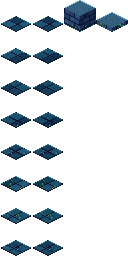
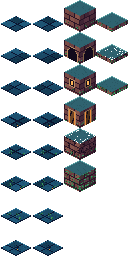
壁の面を増やす: 地下墓所の壁に、アーチ・窓・扉・崩れ・苔の種類と赤茶のレンガ

Changed region(s): [[0.5, 0.0, 1.0, 0.75]]

diff --git a/tools/tiles/make_crypt_tiles.py b/tools/tiles/make_crypt_tiles.py
@@ -89,14 +89,41 @@ def paint_floor(img, ox, oy, variant, shade, rng):
                     if p in cells and cells[p][2] < 0.8 and rng.random() < 0.6 - 0.15 * (abs(dx) + abs(dy)):
                         img.putpixel((ox + p[0], oy + 16 + p[1]), rng.choice(MOSS))
 
-# 壁（高さ：奥の壁=16、手前の壁=4）。形は iso_map.gd の _paint_wall と同じ
-W_TOP = hx('#35607f')
-W_TOP_LIGHT = hx('#5e9cc0')
-W_LEFT = [hx('#27456e'), hx('#223c63'), hx('#2d4d78')]
-W_RIGHT = [hx('#16264a'), hx('#12203f'), hx('#1a2d55')]
-W_MORTAR = hx('#0a1330')
+# 壁（高さ：奥の壁=16、手前の壁=4）。赤茶のレンガに、青緑の笠石。参考画像（暗い遺跡）の色
+W_TOP = hx('#2f6370')
+W_TOP_LIGHT = hx('#5ba3a6')
+W_LEFT = [hx('#7a4a45'), hx('#6d4140'), hx('#86544b')]
+W_RIGHT = [hx('#4a2a35'), hx('#402535'), hx('#553240')]
+W_MORTAR = hx('#2a1426')
+DARK = hx('#120a1c')
+FRAME = hx('#b58a62')
+GLOWC = hx('#ffb454')
+WOOD = hx('#6b4426')
+DOORGLOW = hx('#e8893a')
 
-def paint_wall(img, ox, height, rng):
+def face_feature(kind, x, ry, rng_hash):
+    """面の中の位置(x=0..15（面の中）, ry=0..16)に、窓・扉・アーチを描く。色を返す（なければ None）"""
+    if kind == 'arch':
+        top = 4 + (abs(x - 8) > 2) * 2 + (abs(x - 8) > 3) * 2
+        if 4 <= x <= 12 and ry >= top:
+            return DARK
+        if 3 <= x <= 13 and ry >= top - 1 and (x in (3, 4, 12, 13) or ry == top - 1 + (abs(x - 8) > 2) * 0):
+            return FRAME
+    elif kind == 'window':
+        if 6 <= x <= 9 and 4 <= ry <= 9:
+            return GLOWC if (x in (7, 8) and 5 <= ry <= 8) else DARK
+        if 5 <= x <= 10 and 3 <= ry <= 10:
+            return FRAME
+    elif kind == 'door':
+        if 5 <= x <= 10 and ry >= 3:
+            if x in (5, 10):
+                return DOORGLOW
+            return WOOD if (x + ry // 3) % 4 else DARK
+        if 4 <= x <= 11 and ry >= 2:
+            return FRAME
+    return None
+
+def paint_wall(img, ox, height, rng, kind='plain'):
     top_c = 24.0 - height
     for y in range(W):
         for x in range(W):
@@ -109,15 +136,24 @@ def paint_wall(img, ox, height, rng):
                 col = W_TOP_LIGHT if py < top_lo + 1.0 else W_TOP
                 if rng.random() < 0.10:
                     col = shade_color(col, 0.9)
+                if kind == 'crumbled' and rng.random() < 0.10:
+                    continue  # 崩れて欠けた笠石
                 img.putpixel((ox + x, y), col)
             elif top_hi < py <= bottom:
-                course_y = int(py - top_hi)
-                course = course_y // 5
-                mortar = course_y % 5 == 4 or (x + course * 5) % 10 == 0
+                ry = int(py - top_hi)
+                course = ry // 5
+                mortar = ry % 5 == 4 or (x + course * 5) % 10 == 0
                 palette = W_LEFT if x < 16 else W_RIGHT
                 col = W_MORTAR if mortar else palette[(x // 5 + course) % 3]
-                # 苔：壁の根もと（下の方）に、少し
-                if not mortar and py > bottom - 4 and rng.random() < 0.22:
+                fx = x if x < 16 else x - 16
+                feat = face_feature(kind, fx, ry, 0) if height > 8 else None
+                if feat is not None:
+                    col = feat if x < 16 else shade_color(feat, 0.7) if feat in (FRAME, WOOD) else feat
+                elif kind == 'crumbled' and not mortar and rng.random() < 0.2:
+                    col = DARK if rng.random() < 0.5 else shade_color(col, 0.7)
+                elif kind == 'mossy' and not mortar and rng.random() < 0.28:
+                    col = rng.choice(MOSS)
+                elif not mortar and py > bottom - 4 and rng.random() < 0.18:
                     col = rng.choice(MOSS)
                 img.putpixel((ox + x, y), col)
 
@@ -130,8 +166,15 @@ def main():
     for v in range(VARIANTS):
         # 壁は先頭の行だけ使う（ほかの行は空）。奥の壁・手前の壁
         pass
-    paint_wall(img, W * 2, 16.0, random.Random(7))
-    paint_wall(img, W * 3, 4.0, random.Random(8))
+    # 列2=高い壁（行0=普通 1=アーチ 2=窓 3=扉 4=崩れた 5=苔むした）、列3=低い壁（行0=普通 1=崩れた 2=苔むした）
+    for v, kind in enumerate(['plain', 'arch', 'window', 'door', 'crumbled', 'mossy']):
+        tmp = Image.new('RGBA', (W, W), (0, 0, 0, 0))
+        paint_wall(tmp, 0, 16.0, random.Random(7 + v), kind)
+        img.paste(tmp, (W * 2, W * v))
+    for v, kind in enumerate(['plain', 'crumbled', 'mossy']):
+        tmp = Image.new('RGBA', (W, W), (0, 0, 0, 0))
+        paint_wall(tmp, 0, 4.0, random.Random(17 + v), kind)
+        img.paste(tmp, (W * 3, W * v))
     img.save('art/tiles/crypt_tiles.png')
     print('ok', img.size)
 
